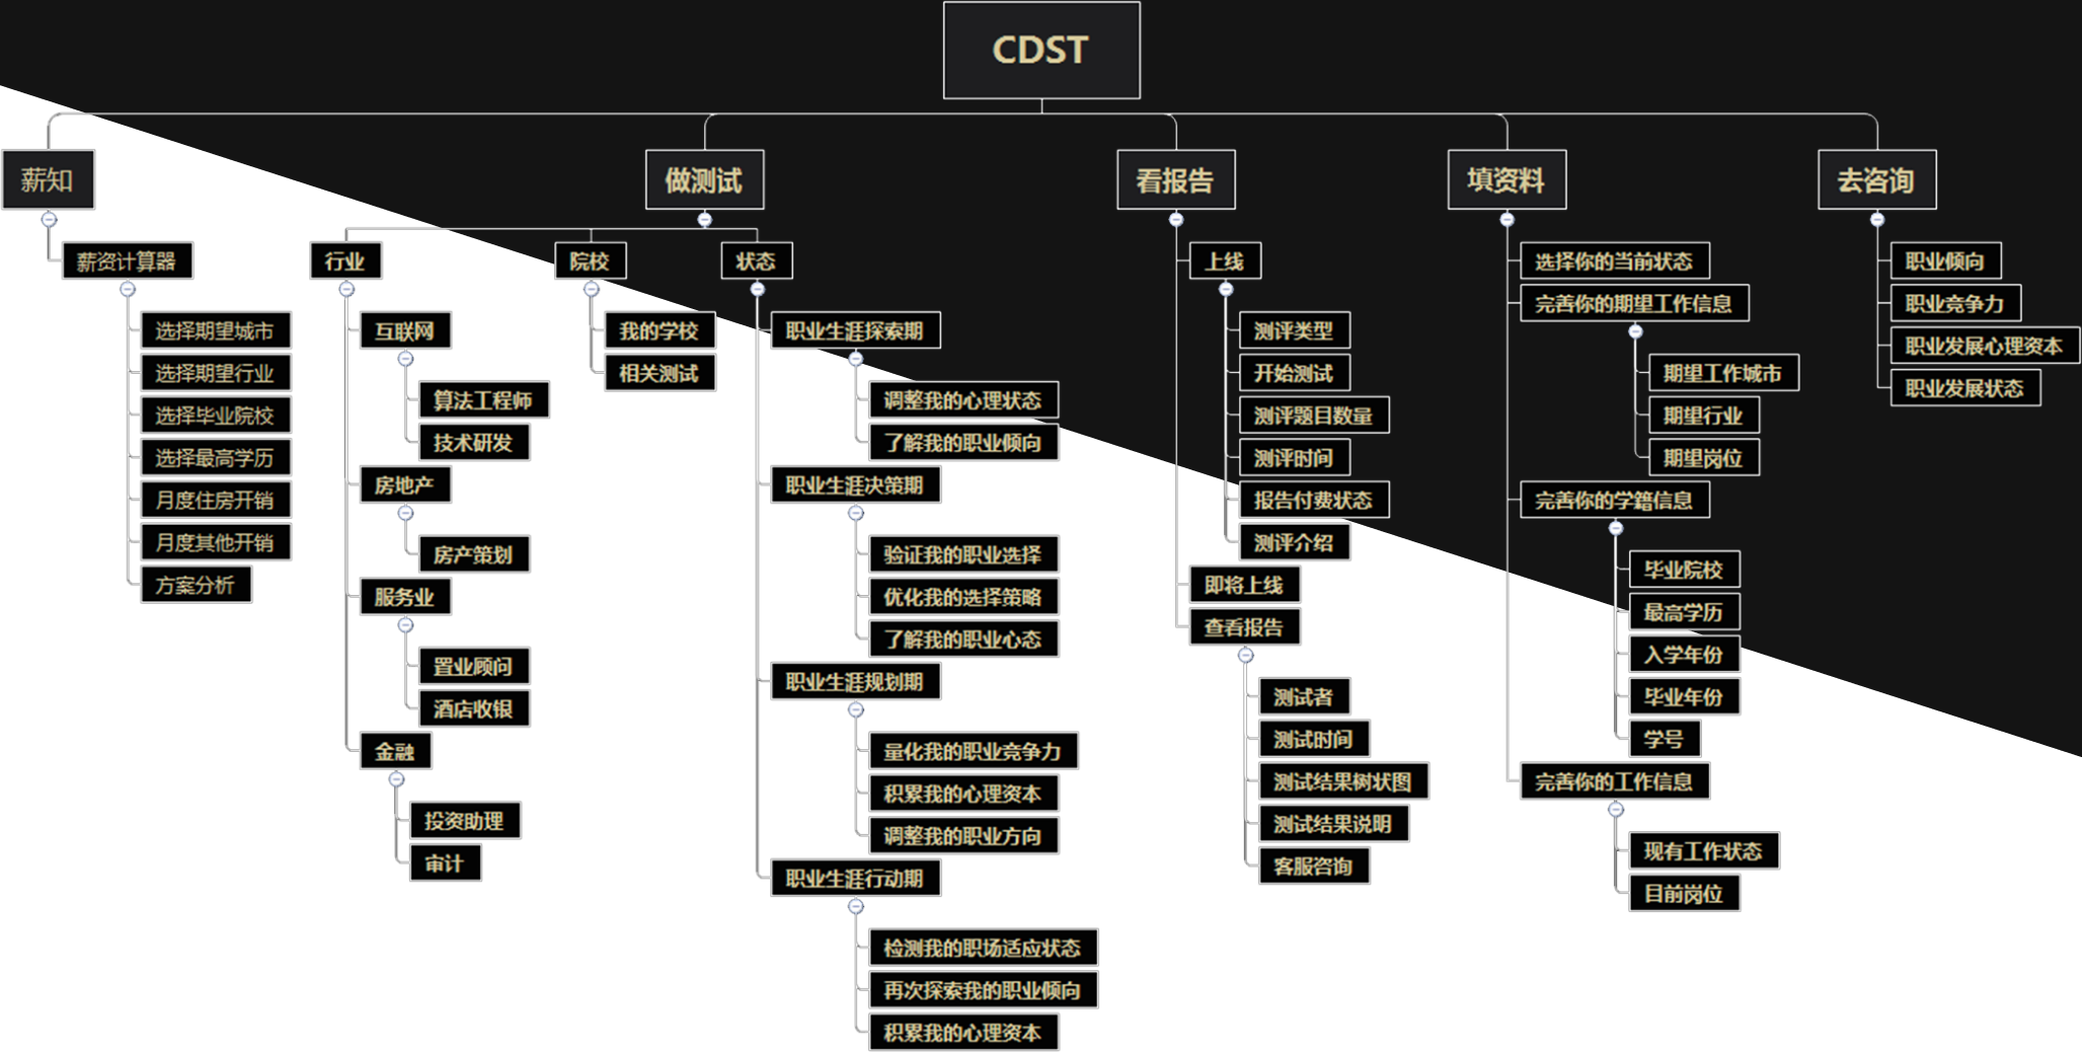
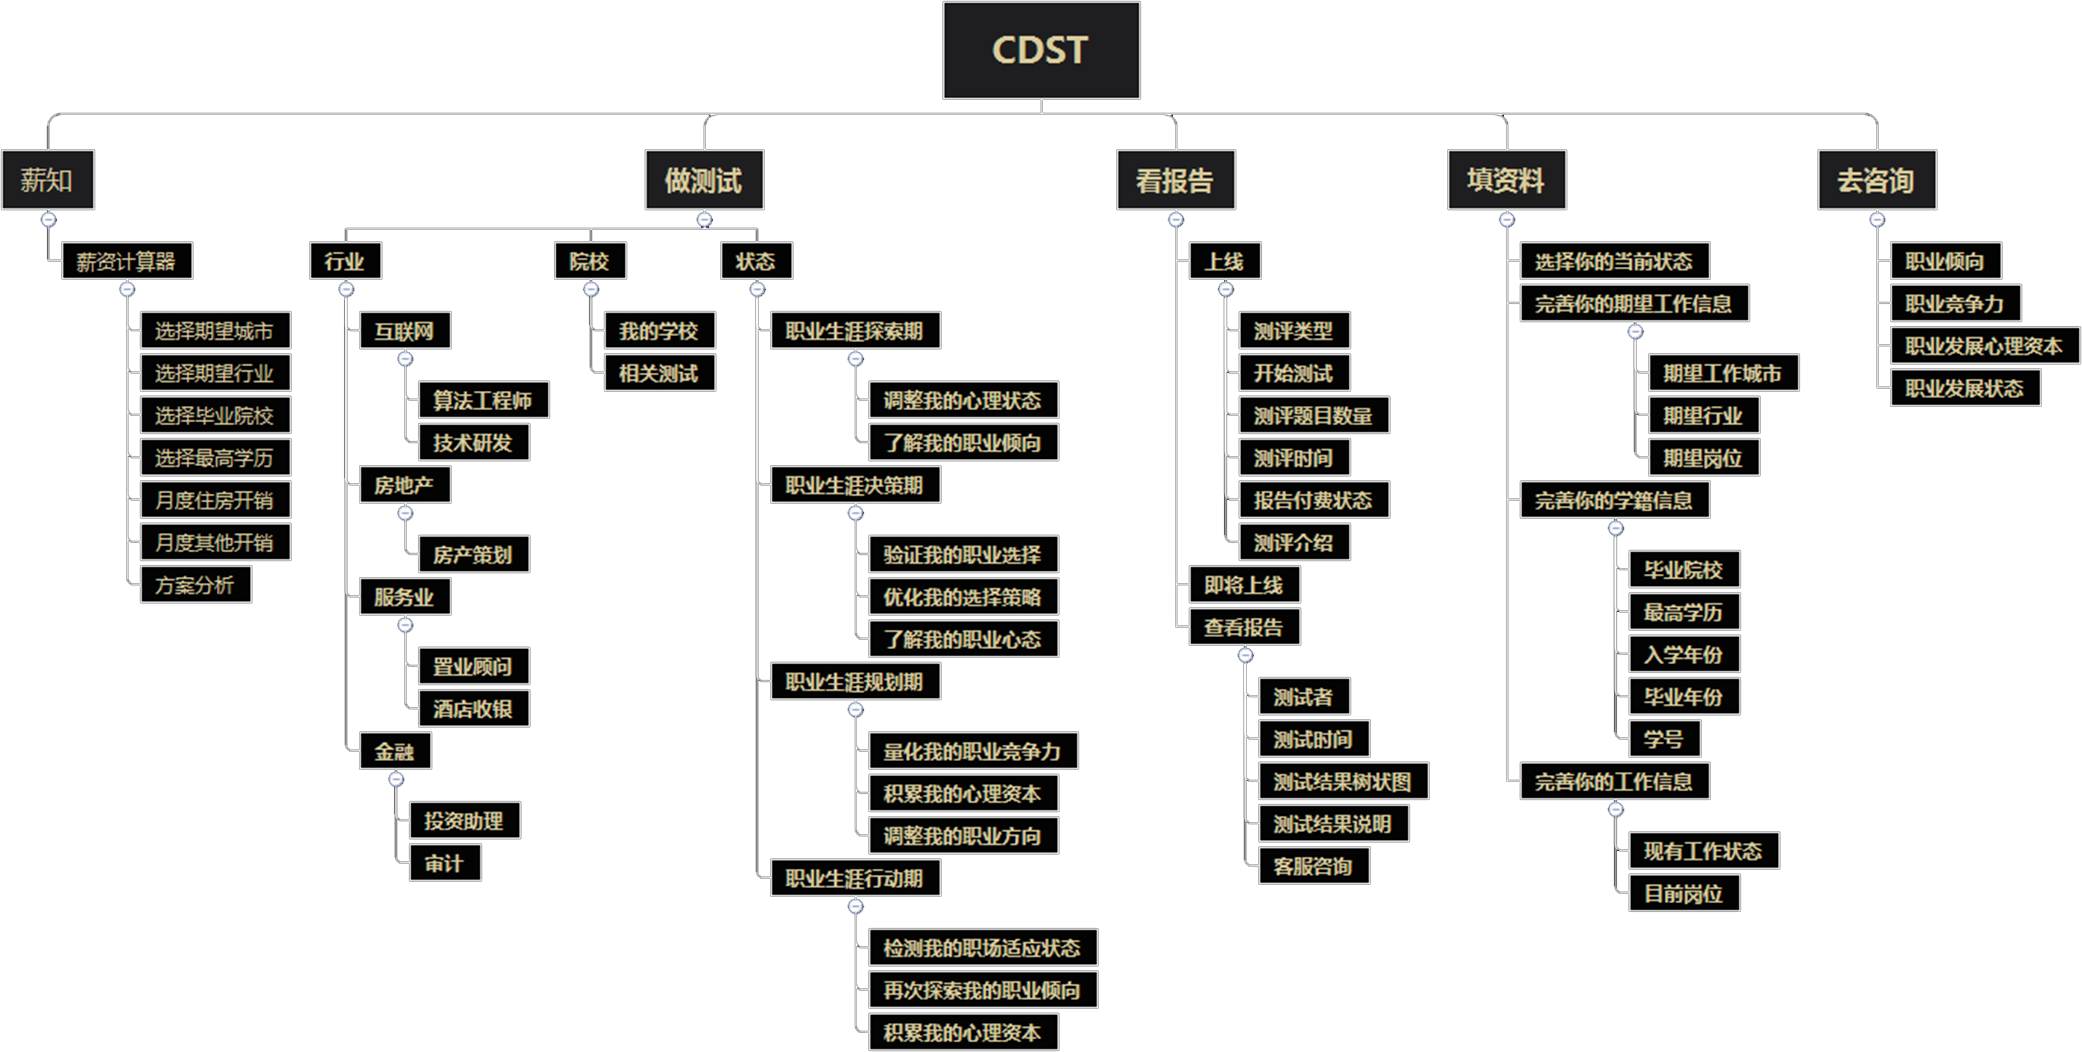
Fix CDST structure and prototype assets

diff --git a/site/src/components/StarFigmaCases.tsx b/site/src/components/StarFigmaCases.tsx
@@ -247,13 +247,14 @@ const cdst = {
   personaD: publicUrl('/images/xingji/cdst/assets/persona-d.webp'),
 
   /* 产品结构 / 流程：本地单图资源 */
-  struct: publicUrl('/images/xingji/cdst/assets/product-structure.webp'),
+  struct: publicUrl('/images/xingji/cdst/assets/product-structure.png'),
   flow: publicUrl('/images/xingji/cdst/assets/product-flow.webp'),
 
-  /* 交互原型：手机稿画面使用本地裁切资源，文字/注释/箭头仍由 DOM 渲染 */
-  prototypeSalary: publicUrl('/images/xingji/cdst/layers/prototype-salary.webp'),
-  prototypeTest: publicUrl('/images/xingji/cdst/layers/prototype-test.webp'),
-  prototypeStatus: publicUrl('/images/xingji/cdst/layers/prototype-status.webp'),
+  /* 交互原型：手机稿和流程线使用 Figma 原始图层，说明文字由 DOM 渲染 */
+  prototypeSalary: publicUrl('/images/xingji/cdst/layers/prototype-salary.png'),
+  prototypeTest: publicUrl('/images/xingji/cdst/layers/prototype-test.png'),
+  prototypeProfile: publicUrl('/images/xingji/cdst/layers/prototype-profile.png'),
+  prototypeStatus: publicUrl('/images/xingji/cdst/layers/prototype-status.png'),
 
   /* UI 视觉：独立手机稿/装饰图分层渲染 */
   uiHome1: publicUrl('/images/xingji/cdst/layers/ui-home-1.webp'),
@@ -287,7 +288,7 @@ function CdstCase() {
     const root = pageRef.current;
     if (!root) return;
 
-    const items = Array.from(root.querySelectorAll<HTMLElement>('.cdst-stage > *:not(.cdst-bg-slab)'));
+    const items = Array.from(root.querySelectorAll<HTMLElement>('.cdst-stage > *:not(.cdst-bg-slab):not(.cdst-section-shield)'));
     items.forEach((item, index) => {
       item.classList.add('cdst-reveal-item');
       item.style.setProperty('--cdst-reveal-delay', `${(index % 6) * 55}ms`);
@@ -368,6 +369,10 @@ function CdstCase() {
             alt=""
           />
         ))}
+        <div
+          className="abs cdst-section-shield"
+          style={{ left: 0, top: SEC.struct - 80, width: 2480, height: SEC.visual - SEC.struct + 80 }}
+        />
 
         {/* ── 头图 hero (y0 h1471) ── */}
         <img
@@ -449,9 +454,9 @@ function CdstCase() {
 
         {/* 薪资计算器 (组19 base 14119.5) */}
         <div className="interaction-title" style={{ left: 280.5, top: I.salary - 0.5 }}>|　　薪资计算器　　|<br /><span>用户选择自己所期望的城市、期望的行业、毕业院校、最高学历，系统将估算出用户毕业后大<br />概的工资水平，从而对自身能够有基本的判断，并且了解当地的五险一金情况。</span></div>
-        <img src={cdst.prototypeSalary} className="abs proto img-cover" style={{ left: 292.5, top: I.salary + 248.5, width: 1311, height: 2422 }} />
-        <Anno x={1263} y={I.salary + 437} text="计算该城市的开支" vertical bar={{ dir: 'v', len: 201, at: -20 }} />
-        <Anno x={1190.5} y={I.salary + 750.5} text="进入测试页面" hidden />
+        <img src={cdst.prototypeSalary} className="abs cdst-prototype-layer img-cover" style={{ left: 292.5, top: I.salary + 248.5, width: 1311, height: 2422 }} />
+        <Anno x={1263} y={I.salary + 437} text="计算该城市的开支" vertical />
+        <Anno x={1190.5} y={I.salary + 750.5} text="进入测试页面" />
         <Anno x={880.5} y={I.salary + 2111.5} text="计算出最低的薪资水平" black />
         <Anno x={244} y={I.salary + 2257} text="当地五险一金明细参考" vertical />
         <Anno x={577} y={I.salary + 2374} text="向下拖动" vertical />
@@ -461,7 +466,7 @@ function CdstCase() {
 
         {/* 测评 (组20 base 17115.5) */}
         <div className="interaction-title" style={{ left: 273.5, top: I.test - 0.5 }}>|　　测评　　|<br /><span>了解自己适合的职业、职业竞争力上的优劣势以及自我内心的强度；了解职场社会，发现自我<br />职业道路选择项。借力自测工具，不断开发自己的职业潜能，获得更好的职业生涯。</span></div>
-        <img src={cdst.prototypeTest} className="abs proto img-cover" style={{ left: 199.5, top: I.test + 238.5, width: 1696, height: 1844 }} />
+        <img src={cdst.prototypeTest} className="abs cdst-prototype-layer img-cover" style={{ left: 199.5, top: I.test + 238.5, width: 1696, height: 1844 }} />
         <Anno x={533} y={I.test + 336} text="左右滑动" vertical />
         <Anno x={907} y={I.test + 429} text="向下滑动" vertical />
         <Anno x={1190.5} y={I.test + 750.5} text="进入测试页面" />
@@ -471,14 +476,14 @@ function CdstCase() {
 
         {/* 个人资料 (组21 base 19361.5) */}
         <div className="interaction-title" style={{ left: 284.5, top: I.profile - 0.5 }}>|　　个人资料　　|</div>
-        <CdstProfilePrototype left={281.5} top={I.profile + 131.5} />
+        <img src={cdst.prototypeProfile} className="abs cdst-prototype-layer img-cover" style={{ left: 281.5, top: I.profile + 131.5, width: 1999, height: 2476 }} />
         <Anno x={918.5} y={I.profile + 2593.5} text="滑动按钮" />
         <Anno x={308.5} y={I.profile + 2565.5} multiline lines={['位置：底部', '交互：页面隐出遮罩', '层，底部弹出，可滚', '动操作列表，点击取', '消关闭(以上与此类页', '面相同的交互一致）']} />
         <Anno x={1361.5} y={I.profile + 2602.5} multiline lines={['位置：页面中部偏上', '交互：5S后渐隐消失']} />
 
         {/* 状态 / 咨询 (组22 base 22252.5) */}
         <div className="interaction-title" style={{ left: 287.5, top: I.status - 0.5 }}>|　　状态　　|<br /><span>选择职业状态</span></div>
-        <img src={cdst.prototypeStatus} className="abs proto img-cover" style={{ left: 235.5, top: I.status + 169.5, width: 1727, height: 1817 }} />
+        <img src={cdst.prototypeStatus} className="abs cdst-prototype-layer img-cover" style={{ left: 235.5, top: I.status + 169.5, width: 1727, height: 1817 }} />
         <Anno x={1028.5} y={I.status + 127.5} text="交互：向下推拉" dim />
         <Anno x={1989.5} y={I.status + 510.5} multiline lines={['位置：页面中部', '交互：底部弹出,', '可手动关闭']} />
         <div className="interaction-title plain" style={{ left: 292.5, top: I.status + 1568.5 }}>|　　咨询　　|</div>

diff --git a/site/src/components/StarFigmaCases.css b/site/src/components/StarFigmaCases.css
@@ -187,6 +187,10 @@
   pointer-events: none;
   z-index: 0;
 }
+.cdst-section-shield {
+  background: #141414;
+  pointer-events: none;
+}
 
 .cdst-symbol-icon {
   display: flex;
@@ -453,6 +457,7 @@
 .interaction-title span { display: block; font-size: 41.67px; line-height: 74.95px; }
 .interaction-title.plain { line-height: 1; }
 .proto { filter: drop-shadow(0 30px 80px rgba(0,0,0,.4)); }
+.cdst-prototype-layer { filter: none; }
 
 .cdst-profile-prototype {
   width: 1999px;
